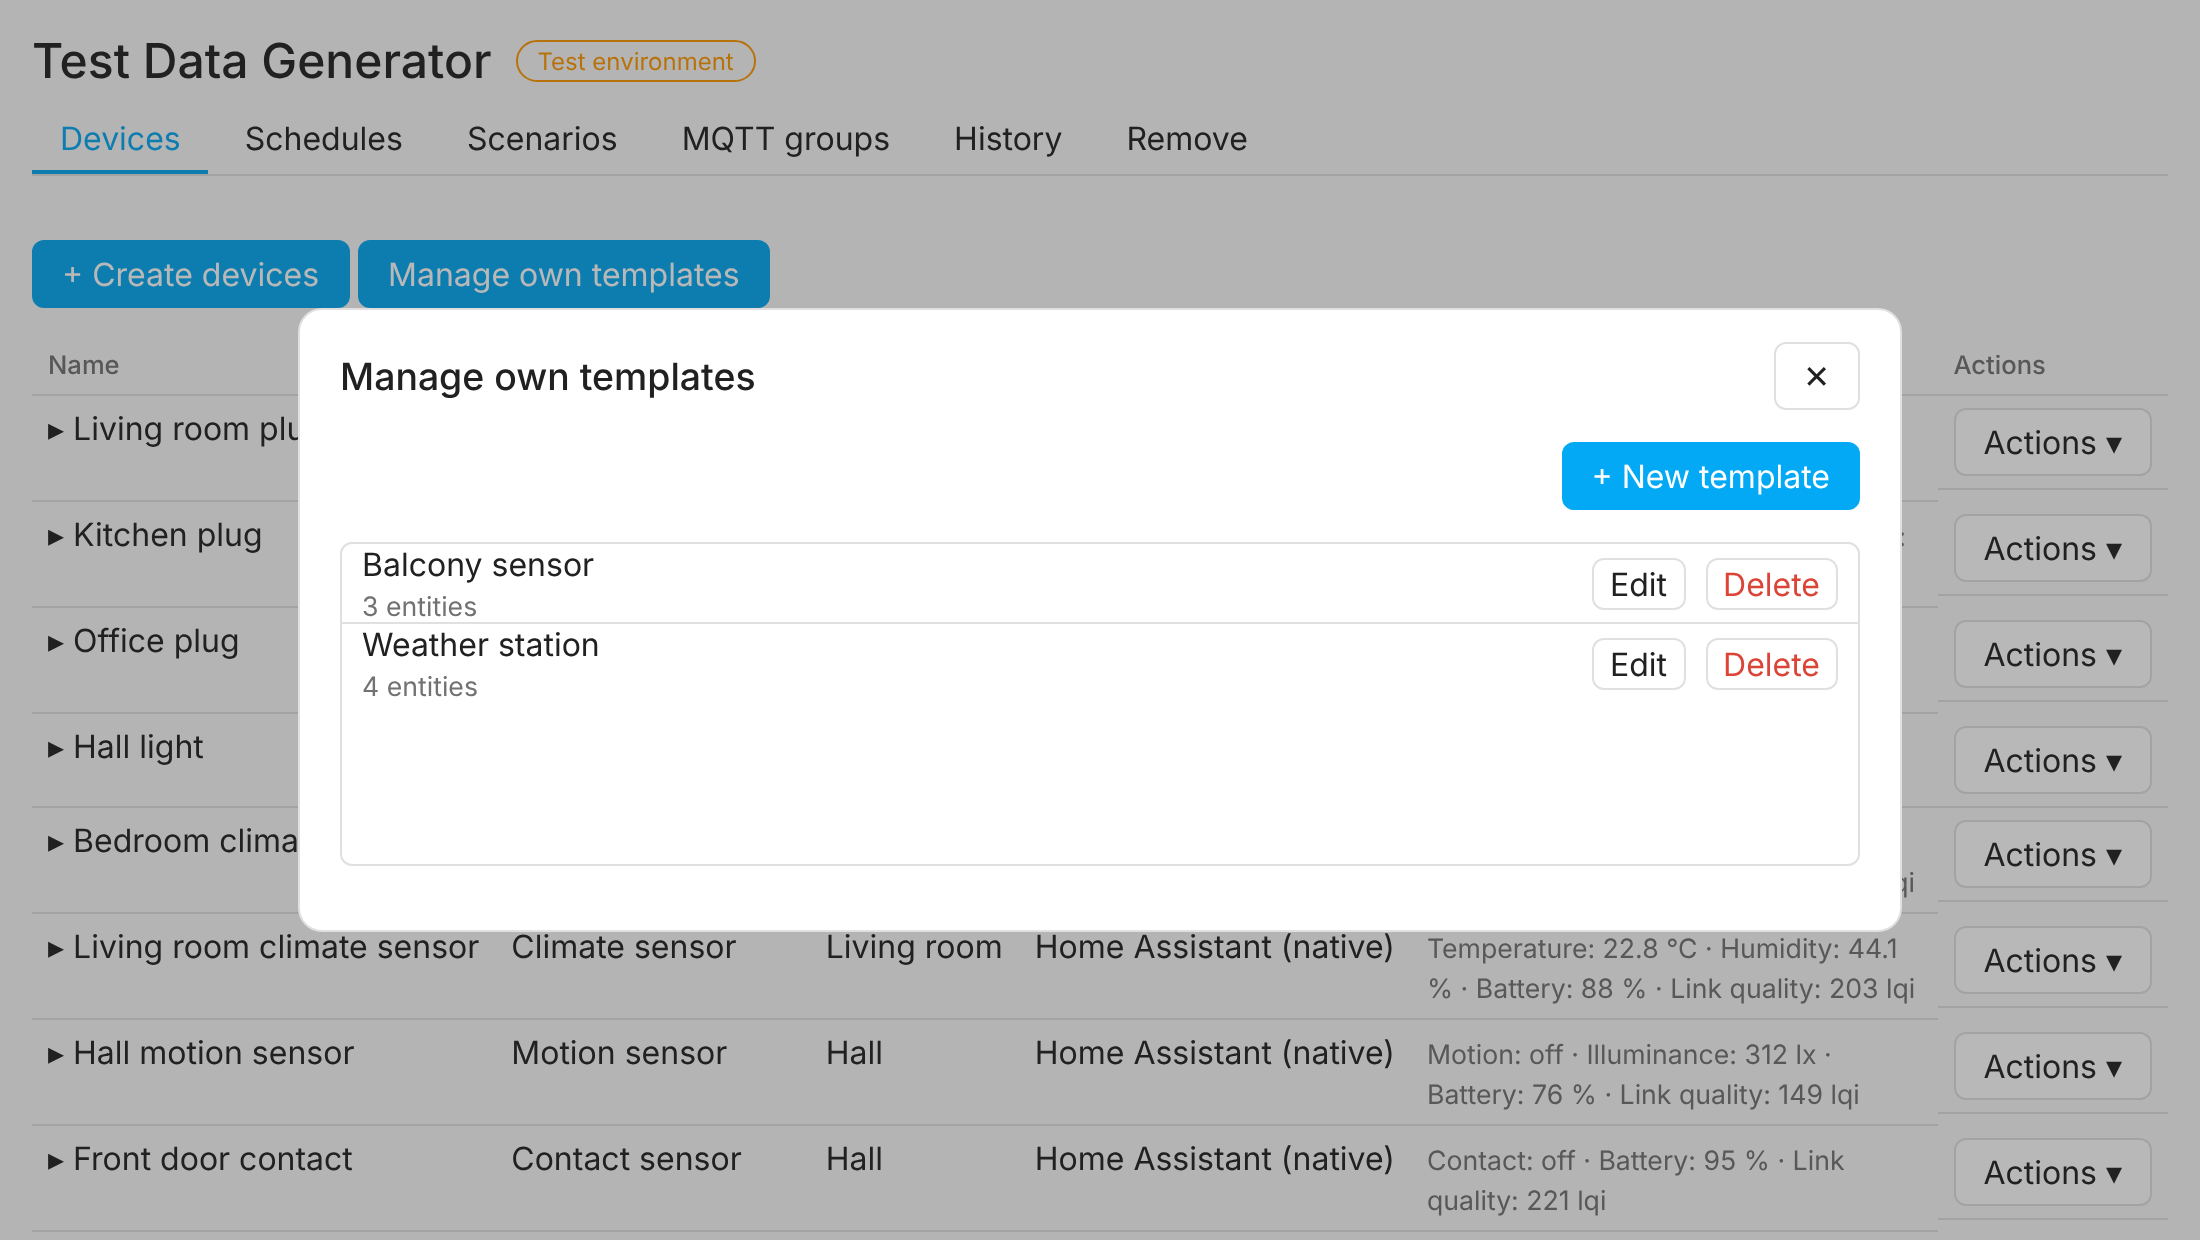
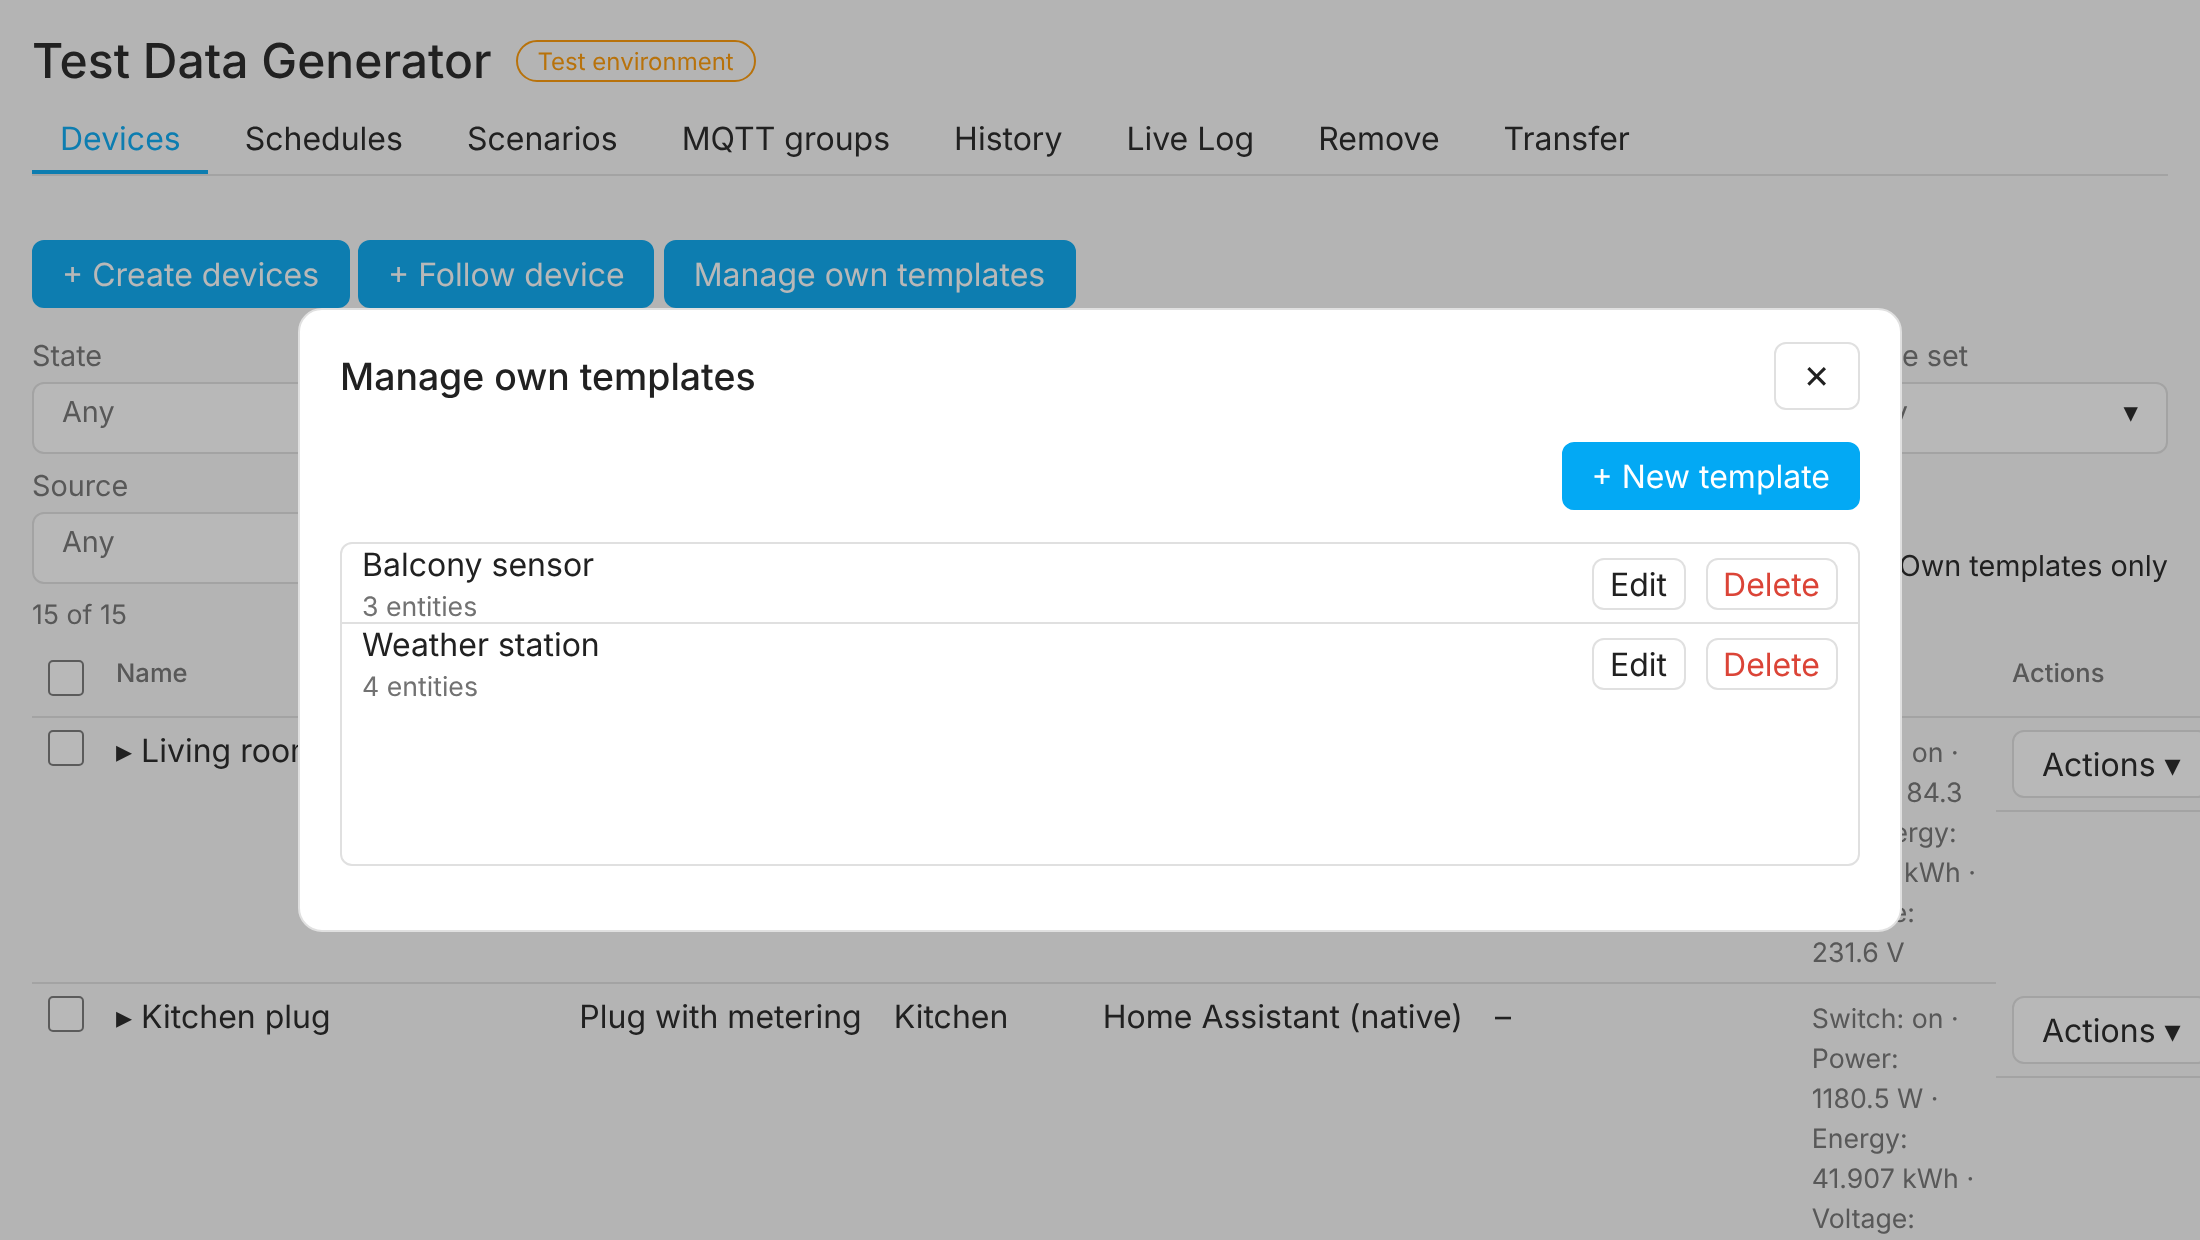
docs: new screenshots for the Live Log and Follow device, refreshed images
Claude-Session: https://claude.ai/code/session_01GJNKFgM5dppZjPqZQwyb9C

diff --git a/panel-src/screenshots/harness.html b/panel-src/screenshots/harness.html
@@ -63,13 +63,39 @@
         },
         'devices/get': (m) => data.devices.find((d) => d.id === m.device),
         'devices/names': () => ({ devices: data.devices }),
-        'devices/list': () => ({ total: data.devices.length, devices: data.devices }),
+        'devices/list': () => ({ total: data.devices.length, matched: data.devices.length, devices: data.devices }),
         'schedules/list': () => data.schedules,
         'schedules/preview': () => data.runs,
         'scenarios/list': () => data.scenarios,
         'groups/list': () => data.groups,
         'removal/plan': () => data.removalPlan,
         'history/import': () => data.historyResult,
+        'log/get': (m) => {
+          const entries = data.logEntries.filter((e) => e.seq > m.since);
+          return {
+            entries,
+            dropped: 0,
+            capture: true,
+            last_seq: data.logEntries.length,
+            size: data.logEntries.length,
+            capacity: 5000,
+            discarded: 0,
+          };
+        },
+        'log/set': () => ({ capture: false, last_seq: 0, size: 0, capacity: 5000, discarded: 0 }),
+        'log/clear': () => ({ capture: true, last_seq: 0, size: 0, capacity: 5000, discarded: 0 }),
+        'sources/list': (m) => ({
+          devices: data.sourceDevices.filter((d) => d.name.toLowerCase().includes((m.query || '').toLowerCase())),
+        }),
+        'sources/inspect': () => ({ entities: data.sourceInfos }),
+        'sources/derive': () => data.sourceDerived,
+        'sources/removed': () => ({ sources: [] }),
+        'sources/preview': () => ({
+          entity_id: 'sensor.boiler_temperature',
+          source: 21.8,
+          unit: '°C',
+          copies: [21.8, 22.4, 21.3, 22.1, 21.6].map((value, index) => ({ index, value, lag_s: index * 2 })),
+        }),
       };
 
       const hass = {

diff --git a/README.md b/README.md
@@ -47,31 +47,37 @@ The panel in the sidebar of Home Assistant (admin only). The images are rendered
 
 **Devices**: every generated device with its values; open one to change its area and the curve of a sensor, and to see where it is used. "Create devices" has an entity editor for custom devices, and "Manage own templates" lists, edits and deletes your own templates.
 
-![The device list](https://raw.githubusercontent.com/stacknoise/hass-test-data-creator/main/docs/images/devices.png?v=2)
+![The device list](https://raw.githubusercontent.com/stacknoise/hass-test-data-creator/main/docs/images/devices.png?v=3)
 
-![A device with its curve editor and its uses](https://raw.githubusercontent.com/stacknoise/hass-test-data-creator/main/docs/images/device-details.png?v=2)
+![A device with its curve editor and its uses](https://raw.githubusercontent.com/stacknoise/hass-test-data-creator/main/docs/images/device-details.png?v=3)
 
-![The popup that creates devices](https://raw.githubusercontent.com/stacknoise/hass-test-data-creator/main/docs/images/create-devices.png?v=2)
+![The popup that creates devices](https://raw.githubusercontent.com/stacknoise/hass-test-data-creator/main/docs/images/create-devices.png?v=3)
 
-![A custom device that starts from a template, with the entity editor](https://raw.githubusercontent.com/stacknoise/hass-test-data-creator/main/docs/images/create-custom-device.png?v=2)
+![A custom device that starts from a template, with the entity editor](https://raw.githubusercontent.com/stacknoise/hass-test-data-creator/main/docs/images/create-custom-device.png?v=3)
 
-![The popup that manages the own templates](https://raw.githubusercontent.com/stacknoise/hass-test-data-creator/main/docs/images/own-templates.png?v=2)
+![The popup that manages the own templates](https://raw.githubusercontent.com/stacknoise/hass-test-data-creator/main/docs/images/own-templates.png?v=3)
 
 **Schedules and scenarios**: schedules with the planned runs of the next 24 hours, and scenarios as timed steps.
 
-![The schedules with the next 24 hours](https://raw.githubusercontent.com/stacknoise/hass-test-data-creator/main/docs/images/schedules.png?v=2)
+![The schedules with the next 24 hours](https://raw.githubusercontent.com/stacknoise/hass-test-data-creator/main/docs/images/schedules.png?v=3)
 
-![The popup of a new schedule](https://raw.githubusercontent.com/stacknoise/hass-test-data-creator/main/docs/images/schedule-new.png?v=2)
+![The popup of a new schedule](https://raw.githubusercontent.com/stacknoise/hass-test-data-creator/main/docs/images/schedule-new.png?v=3)
 
-![A scenario with its steps](https://raw.githubusercontent.com/stacknoise/hass-test-data-creator/main/docs/images/scenarios.png?v=2)
+![A scenario with its steps](https://raw.githubusercontent.com/stacknoise/hass-test-data-creator/main/docs/images/scenarios.png?v=3)
+
+**Live Log and source device (1.2)**: every state change of the generated entities, live, and a popup that follows a real device with a deviation per copy.
+
+![The live log](https://raw.githubusercontent.com/stacknoise/hass-test-data-creator/main/docs/images/live-log.png?v=3)
+
+![The popup that follows a real device](https://raw.githubusercontent.com/stacknoise/hass-test-data-creator/main/docs/images/follow-device.png?v=3)
 
 **MQTT groups, history and removal**
 
-![The MQTT groups](https://raw.githubusercontent.com/stacknoise/hass-test-data-creator/main/docs/images/groups.png?v=2)
+![The MQTT groups](https://raw.githubusercontent.com/stacknoise/hass-test-data-creator/main/docs/images/groups.png?v=3)
 
-![The statistics import](https://raw.githubusercontent.com/stacknoise/hass-test-data-creator/main/docs/images/history.png?v=2)
+![The statistics import](https://raw.githubusercontent.com/stacknoise/hass-test-data-creator/main/docs/images/history.png?v=3)
 
-![The removal with its plan](https://raw.githubusercontent.com/stacknoise/hass-test-data-creator/main/docs/images/removal.png?v=2)
+![The removal with its plan](https://raw.githubusercontent.com/stacknoise/hass-test-data-creator/main/docs/images/removal.png?v=3)
 
 ## Status
 
